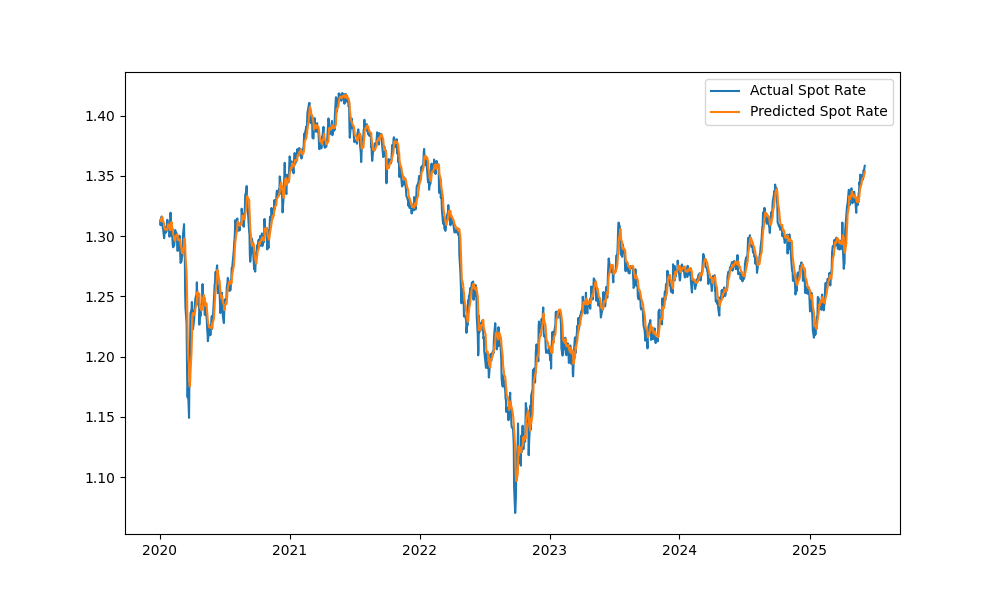
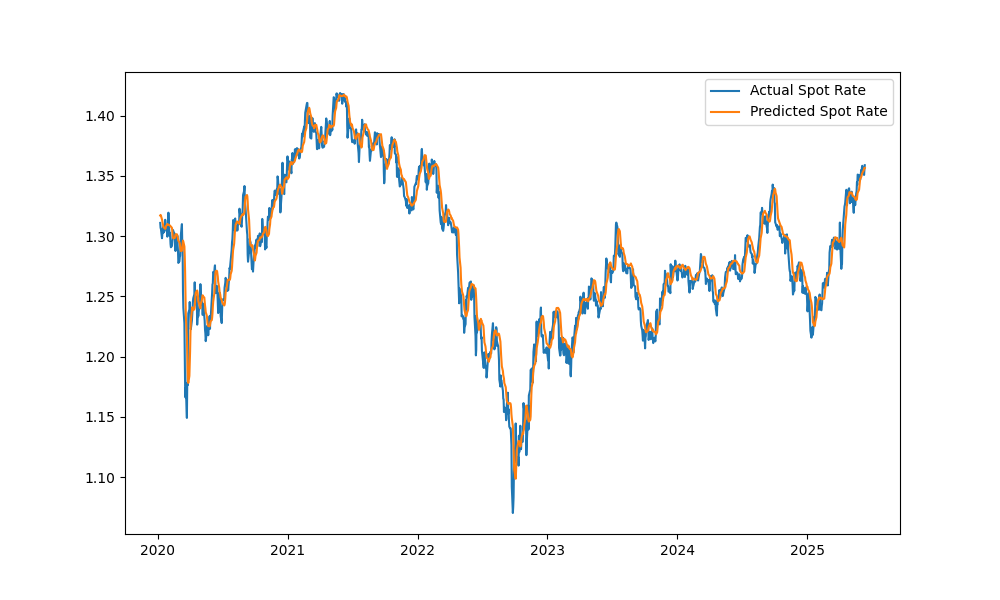
updated readme & add images

diff --git a/README.md b/README.md
@@ -41,8 +41,8 @@ class LSTM(nn.Module):
         return out
 
 
-model = LSTM(input_size=1,hidden_size=228,num_layers=1,output_size=1)
-optimizer = torch.optim.Adam(model.parameters(),lr=0.01)
+model = LSTM(input_size=1,hidden_size=512,num_layers=1,output_size=1)
+optimizer = torch.optim.Adam(model.parameters(),lr=0.001)
 loss_fn = nn.MSELoss()
 epochs = 200
 
@@ -73,47 +73,50 @@ After the train/test split, scaling, sliding window etc., the LSTM class is defi
 ```text
 
             Date  Actual Spot Rate  Predicted Spot Rate
-12292 2020-01-02            1.3128               1.3135
-12293 2020-01-03            1.3091               1.3140
-12294 2020-01-06            1.3163               1.3121
-12295 2020-01-07            1.3127               1.3155
-12296 2020-01-08            1.3110               1.3161
-12297 2020-01-09            1.3069               1.3138
-12298 2020-01-10            1.3060               1.3126
-12299 2020-01-13            1.2983               1.3105
-12300 2020-01-14            1.3018               1.3070
-12301 2020-01-15            1.3030               1.3056
-12302 2020-01-16            1.3076               1.3055
-12303 2020-01-17            1.3029               1.3060
-12304 2020-01-21            1.3047               1.3052
-12305 2020-01-22            1.3136               1.3050
-12306 2020-01-23            1.3104               1.3084
-12307 2020-01-24            1.3071               1.3099
-12308 2020-01-27            1.3054               1.3087
-12309 2020-01-28            1.2996               1.3086
-12310 2020-01-29            1.3012               1.3065
-12311 2020-01-30            1.3106               1.3050
             Date  Actual Spot Rate  Predicted Spot Rate
-13629 2025-05-08            1.3287               1.3343
-13630 2025-05-09            1.3318               1.3320
-13631 2025-05-12            1.3194               1.3322
-13632 2025-05-13            1.3280               1.3293
-13633 2025-05-14            1.3303               1.3284
-13634 2025-05-15            1.3292               1.3306
-13635 2025-05-16            1.3257               1.3297
-13636 2025-05-19            1.3357               1.3281
-13637 2025-05-20            1.3371               1.3312
-13638 2025-05-21            1.3447               1.3337
-13639 2025-05-22            1.3426               1.3372
-13640 2025-05-23            1.3511               1.3396
-13641 2025-05-27            1.3505               1.3434
-13642 2025-05-28            1.3462               1.3467
-13643 2025-05-29            1.3489               1.3469
-13644 2025-05-30            1.3468               1.3480
-13645 2025-06-02            1.3549               1.3489
-13646 2025-06-03            1.3520               1.3507
-13647 2025-06-04            1.3570               1.3520
-13648 2025-06-05            1.3584               1.3533
+12296 2020-01-08            1.3110               1.3171
+12297 2020-01-09            1.3069               1.3176
+12298 2020-01-10            1.3060               1.3169
+12299 2020-01-13            1.2983               1.3139
+12300 2020-01-14            1.3018               1.3124
+12301 2020-01-15            1.3030               1.3112
+12302 2020-01-16            1.3076               1.3089
+12303 2020-01-17            1.3029               1.3075
+12304 2020-01-21            1.3047               1.3064
+12305 2020-01-22            1.3136               1.3060
+12306 2020-01-23            1.3104               1.3064
+12307 2020-01-24            1.3071               1.3083
+12308 2020-01-27            1.3054               1.3094
+12309 2020-01-28            1.2996               1.3102
+12310 2020-01-29            1.3012               1.3096
+12311 2020-01-30            1.3106               1.3094
+12312 2020-01-31            1.3195               1.3095
+12313 2020-02-03            1.3006               1.3092
+12314 2020-02-04            1.3029               1.3088
+12315 2020-02-05            1.3000               1.3086
+            Date  Actual Spot Rate  Predicted Spot Rate
+13634 2025-05-15            1.3292               1.3324
+13635 2025-05-16            1.3257               1.3310
+13636 2025-05-19            1.3357               1.3299
+13637 2025-05-20            1.3371               1.3303
+13638 2025-05-21            1.3447               1.3306
+13639 2025-05-22            1.3426               1.3338
+13640 2025-05-23            1.3511               1.3360
+13641 2025-05-27            1.3505               1.3386
+13642 2025-05-28            1.3462               1.3418
+13643 2025-05-29            1.3489               1.3454
+13644 2025-05-30            1.3468               1.3475
+13645 2025-06-02            1.3549               1.3492
+13646 2025-06-03            1.3520               1.3502
+13647 2025-06-04            1.3570               1.3516
+13648 2025-06-05            1.3584               1.3521
+13649 2025-06-06            1.3532               1.3531
+13650 2025-06-09            1.3563               1.3546
+13651 2025-06-10            1.3508               1.3557
+13652 2025-06-11            1.3556               1.3568
+13653 2025-06-12            1.3589               1.3567
+
+
 ```
 
 
